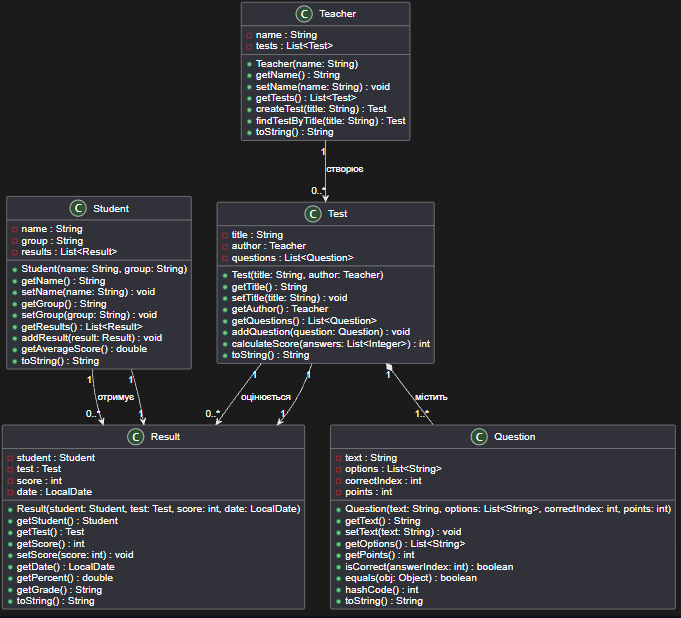
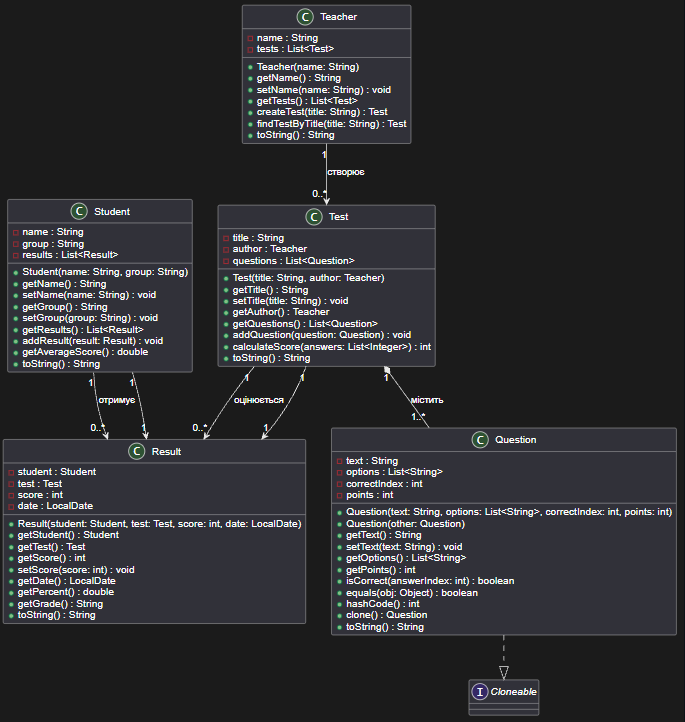
Створення структури проекту та класів.

diff --git a/src/ua/edu/op/nkpk/Main.java b/src/ua/edu/op/nkpk/Main.java
@@ -4,6 +4,7 @@ import ua.edu.op.nkpk.model.*;
 
 import java.time.LocalDate;
 import java.util.Arrays;
+import java.util.ArrayList;
 
 public class Main {
     public static void main(String[] args) {
@@ -16,6 +17,12 @@ public class Main {
 
         Student student = new Student("Петренко П.П.", "АС333");
         int score = test.calculateScore(Arrays.asList(1, 0));
+        Question original = new Question("Столиця України?", new ArrayList<>(Arrays.asList("Львів", "Київ", "Одеса")), 1, 1);
+
+        Question clonedByClone = original.clone();
+        Question clonedByConstructor = new Question(original);
+
+        clonedByClone.getOptions().set(0, "ЗМІНЕНО");
 
         Result result = new Result(student, test, score, LocalDate.now());
         student.addResult(result);
@@ -27,5 +34,10 @@ public class Main {
         System.out.println("Оцінка: " + result.getGrade());
         System.out.println("Середній бал: " + student.getAverageScore());
         System.out.println("Знайдено тест: " + teacher.findTestByTitle("основи java"));
+        System.out.println("Оригінал: " + original.getOptions());
+        System.out.println("Клон (clone()): " + clonedByClone.getOptions());
+        System.out.println("Клон (конструктор копіювання): " + clonedByConstructor.getOptions());
+        System.out.println("original == clonedByClone: " + (original == clonedByClone));
+        System.out.println("original.equals(clonedByClone): " + original.equals(clonedByClone));
     }
 }

diff --git a/README.md b/README.md
@@ -21,4 +21,4 @@ StudyTest
 - https://github.com/ajaymahadeven/Quizzy-App
 
 ## Концептуальна діаграма класів
-![img.png](img.png)!
+![img_1.png](img_1.png)
